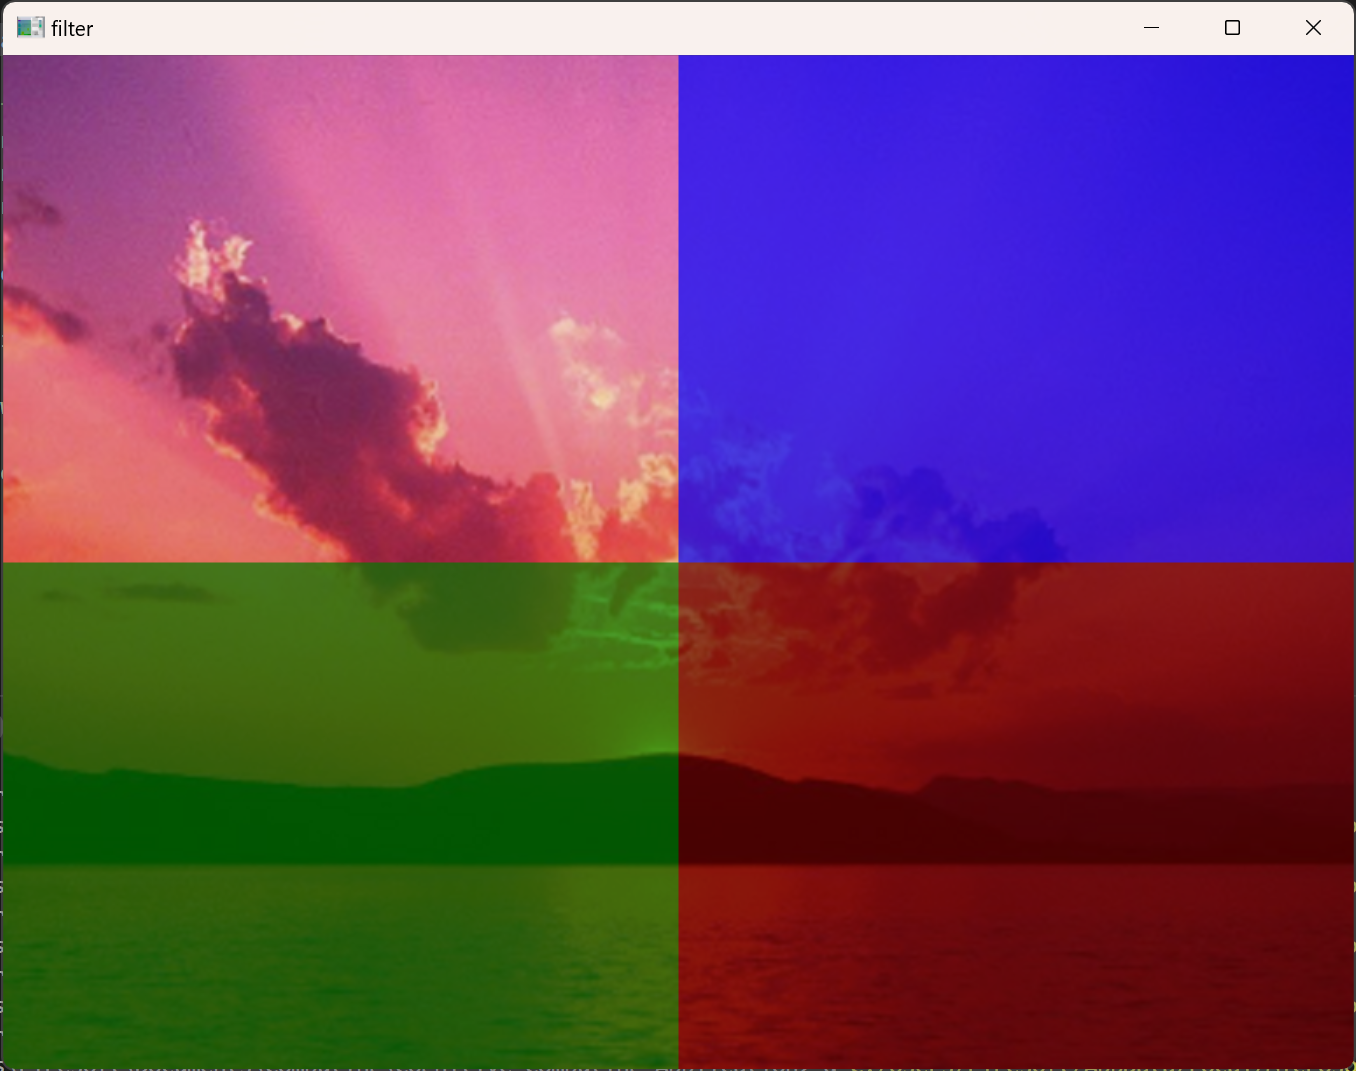
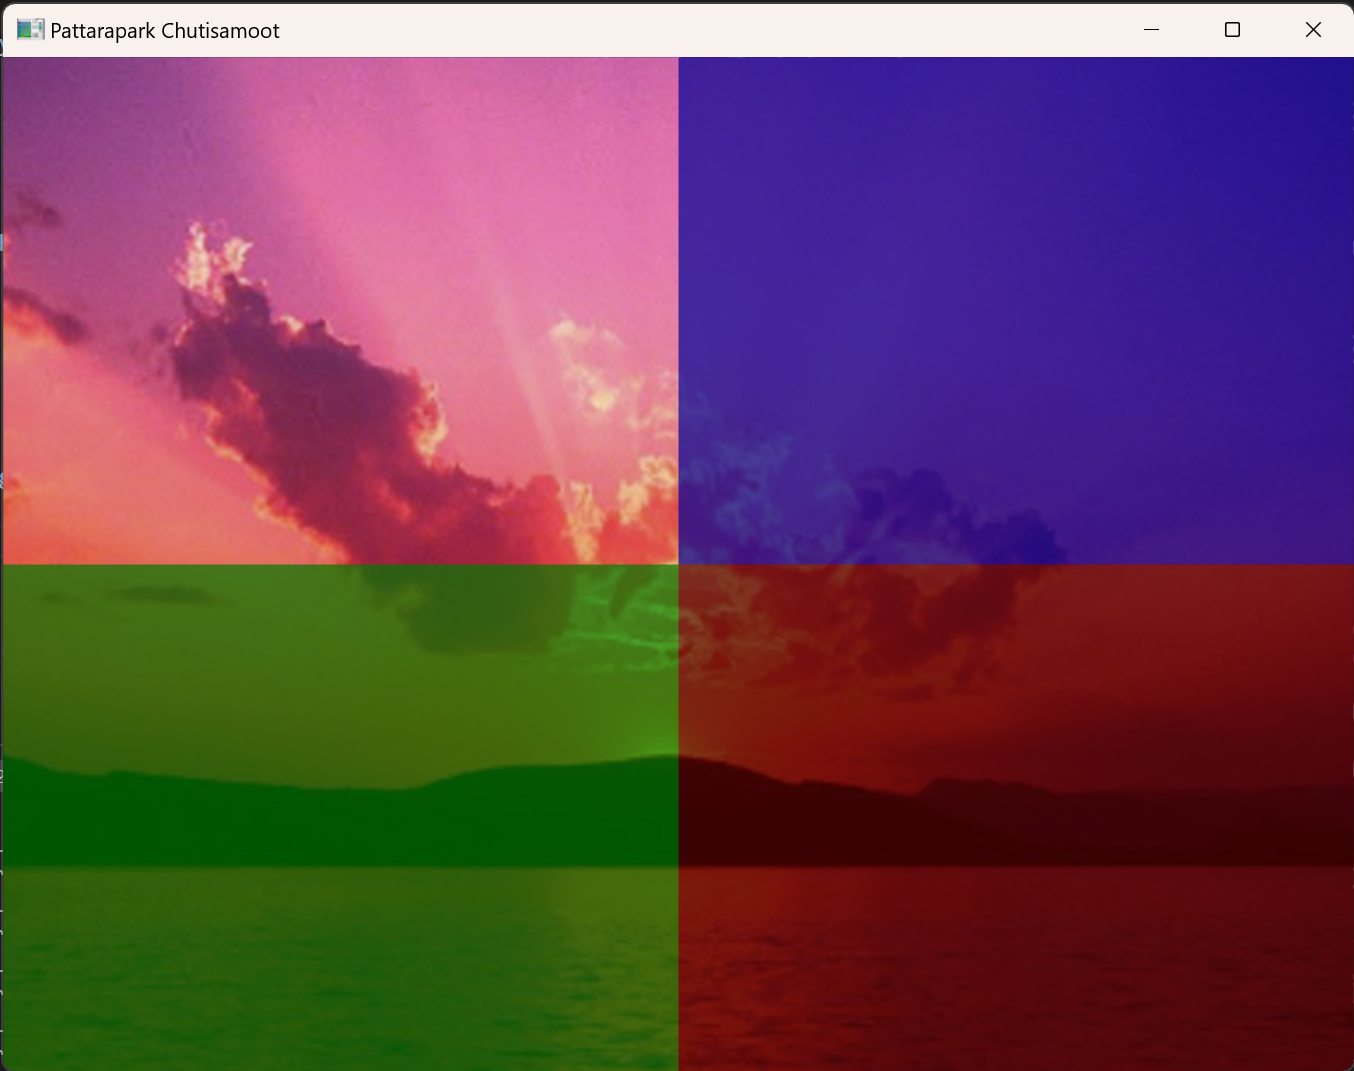
UWU

Changed region(s): [[0.0, 0.0, 1.0, 1.0], [0.4963, 0.8011, 0.7134, 0.8319]]

diff --git a/Week_3/lab.py b/Week_3/lab.py
@@ -16,13 +16,13 @@ x2, y2, w2, h2 = 386, 290, 386, 290
 alpha = 0.7
   
 # A filled rectangle
-cv2.rectangle(overlay, (x, y), (x + w, y + h), (255, 0, 0), -1)
+cv2.rectangle(overlay, (x, y), (x + w, y + h), (150, 0, 0), -1)
 cv2.rectangle(overlay, (x1, y1), (x1 + w1, y1 + h1), (0, 120, 0), -1)
-cv2.rectangle(overlay, (x2, y2), (x2 + w2, y2 + h2), (0, 0, 100), -1)
+cv2.rectangle(overlay, (x2, y2), (x2 + w2, y2 + h2), (0, 0, 80), -1)
   
 image_new = cv2.addWeighted(overlay, alpha, image, 1 - alpha, 0)
 
-cv2.imshow("filter", image_new)
+cv2.imshow("Pattarapark Chutisamoot", image_new)
 
 cv2.waitKey(0)
   
